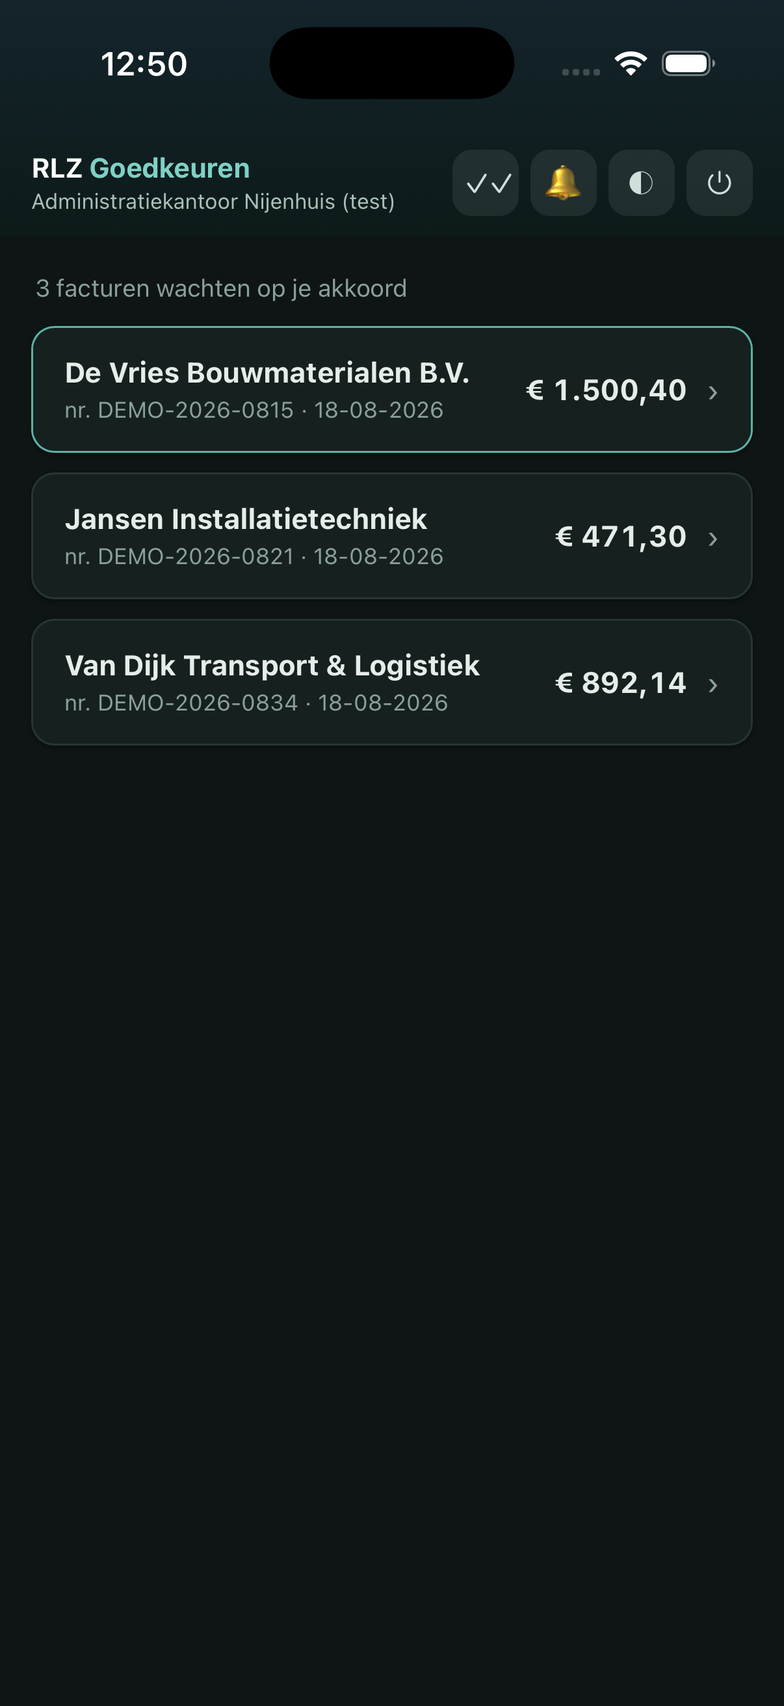
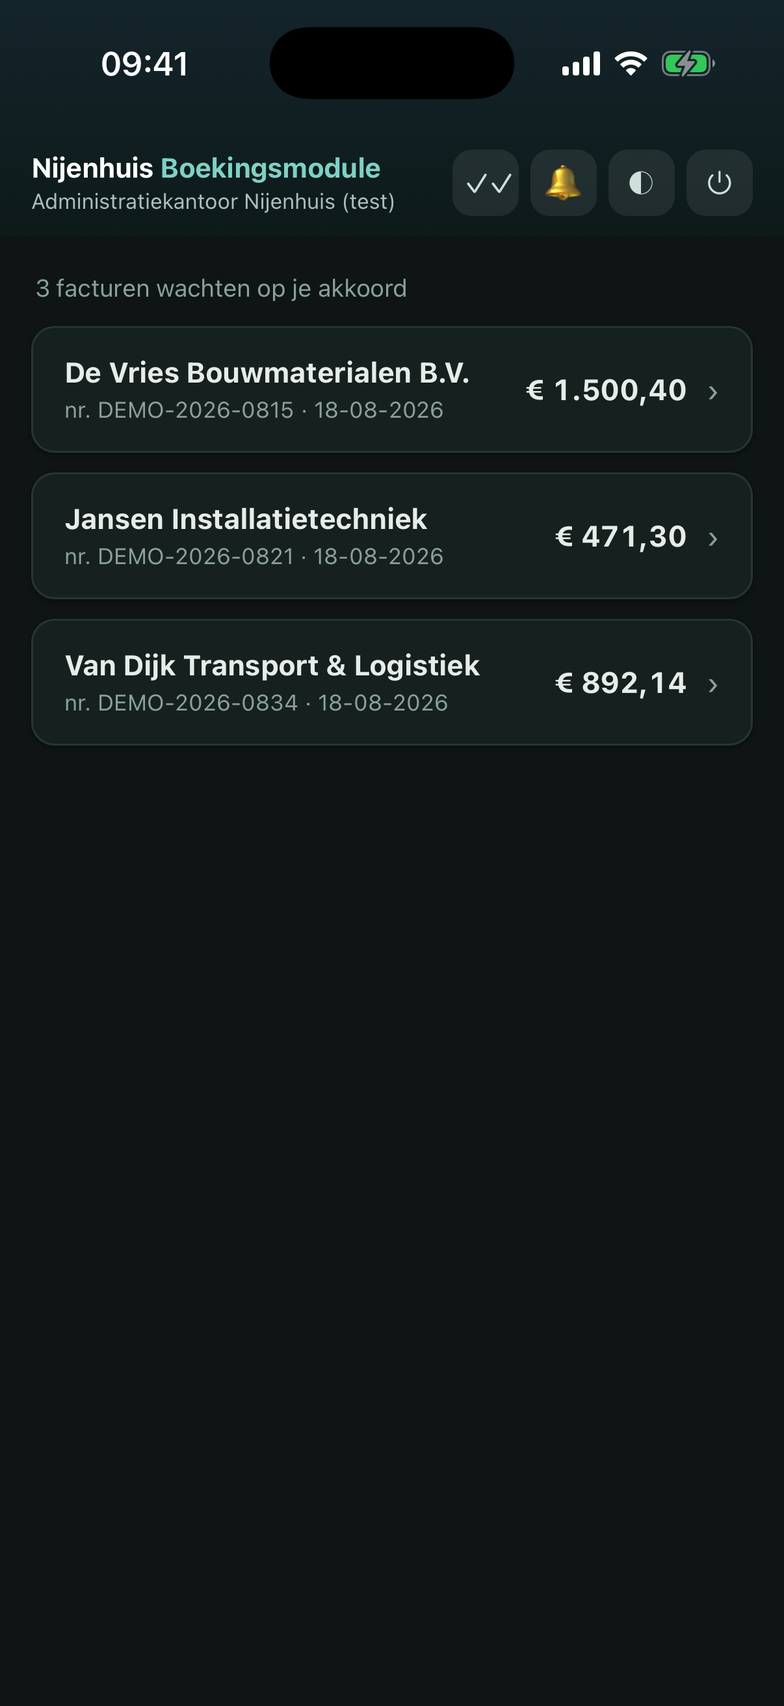
feat(accordeur): in-app wordmark 'Nijenhuis Boekingsmodule' + store-screenshots hergenereerd
- besluit Peter 19-08: schermkop (login/ontgrendel/activeren/voorwaarden/
  wachtrij/meldingen-kaart + AccordeurApp-tussenstanden, 9 plekken) van
  'RLZ Goedkeuren' naar 'Nijenhuis <span>Boekingsmodule</span>' — zelfde
  stijl, ondertitels ongewijzigd; mockup-norm accordeur.html 1-op-1 mee
- alle 7 App Store-screenshots hergenereerd in de simulator-opzet van
  18-08 (lokale backend met apex-rp_id, fictieve DEMO-facturen, donker;
  6.3" 1206x2622 + 6.9" 1320x2868) — passkey-cyclus onderweg opnieuw
  live bewezen, iOS-sheet toont nu 'Inloggen bij Nijenhuis'
- STORE_GEREEDHEID kopnoot + screenshotsectie bijgewerkt; BESLISSINGEN
  rij IN-APP WORDMARK (+ APP HERNOEMD-status)
- tsc -b schoon; 439 frontendtests groen; prod-bundle + cap sync ververst
- open: kabel-install op Peters iPhone (toestel was niet verbonden)

diff --git a/frontend/src/accordeur/AccordeurApp.tsx b/frontend/src/accordeur/AccordeurApp.tsx
@@ -165,7 +165,7 @@ export default function AccordeurApp() {
       ) : (
         <div className="acc-vol">
           <div className="acc-appnaam">
-            RLZ <span>Goedkeuren</span>
+            Nijenhuis <span>Boekingsmodule</span>
           </div>
           <div className="acc-bio">
             <div className="acc-sub">Laden…</div>
@@ -176,7 +176,7 @@ export default function AccordeurApp() {
     inhoud = (
       <div className="acc-vol">
         <div className="acc-appnaam">
-          RLZ <span>Goedkeuren</span>
+          Nijenhuis <span>Boekingsmodule</span>
         </div>
         <div className="acc-bio">
           <div className="acc-icoon">☉</div>
@@ -195,7 +195,7 @@ export default function AccordeurApp() {
     inhoud = (
       <div className="acc-vol">
         <div className="acc-appnaam">
-          RLZ <span>Goedkeuren</span>
+          Nijenhuis <span>Boekingsmodule</span>
         </div>
         <div className="acc-bio">
           <div className="acc-sub">Laden…</div>

diff --git a/mockup/accordeur.html b/mockup/accordeur.html
@@ -232,7 +232,7 @@
 
     <div class="apphead">
       <div>
-        <b>RLZ <span>Goedkeuren</span></b>
+        <b>Nijenhuis <span>Boekingsmodule</span></b>
         <div class="who">BLOW B.V. · S. Bakker (laag 1)</div>
       </div>
       <div class="headbtns">
@@ -351,7 +351,7 @@
          (klik-klik-besluit Peter 2026-08-17: openen → Face ID → binnen, nul onnodige tikken);
          de knop blijft staan als herkansing (prompt weggedrukt/gefaald — dan geen foutmelding). -->
     <div class="unlock" id="unlock">
-      <div class="appnaam">RLZ <span>Goedkeuren</span></div>
+      <div class="appnaam">Nijenhuis <span>Boekingsmodule</span></div>
       <div class="bio">
         <div class="icoon" id="bioicoon">☉</div>
         <b id="biotitel">Ontgrendel met Face ID</b>

diff --git a/frontend/src/accordeur/GoedkeurenFlow.tsx b/frontend/src/accordeur/GoedkeurenFlow.tsx
@@ -590,7 +590,7 @@ export function GoedkeurenFlow({ wisselThema, uitloggen }: Props) {
     return (
       <div className="acc-vol">
         <div className="acc-appnaam">
-          RLZ <span>Goedkeuren</span>
+          Nijenhuis <span>Boekingsmodule</span>
         </div>
         <div className="acc-bio">
           <div className="acc-icoon">🔔</div>
@@ -626,7 +626,7 @@ export function GoedkeurenFlow({ wisselThema, uitloggen }: Props) {
       <div className="acc-apphead">
         <div>
           <b>
-            RLZ <span>Goedkeuren</span>
+            Nijenhuis <span>Boekingsmodule</span>
           </b>
           <div className="acc-who">{administratieNamen.join(' · ') || 'Accordeur'}</div>
         </div>

diff --git a/frontend/src/accordeur/Ontgrendel.tsx b/frontend/src/accordeur/Ontgrendel.tsx
@@ -87,7 +87,7 @@ export function Ontgrendel({ naOntgrendeld, naarLogin }: Props) {
   return (
     <div className="acc-vol">
       <div className="acc-appnaam">
-        RLZ <span>Goedkeuren</span>
+        Nijenhuis <span>Boekingsmodule</span>
       </div>
       <div className="acc-bio">
         <div className={gelukt ? 'acc-icoon ok' : 'acc-icoon'}>{gelukt ? '✓' : '☉'}</div>

diff --git a/frontend/src/accordeur/AccordeurActiveren.tsx b/frontend/src/accordeur/AccordeurActiveren.tsx
@@ -83,7 +83,7 @@ export function AccordeurActiveren({ passkeySetupToken, naIngelogd }: Props) {
   return (
     <div className="acc-vol">
       <div className="acc-appnaam">
-        RLZ <span>Goedkeuren</span>
+        Nijenhuis <span>Boekingsmodule</span>
       </div>
       <div className="acc-bio">
         <div className="acc-icoon">☉</div>

diff --git a/frontend/src/accordeur/VoorwaardenScherm.tsx b/frontend/src/accordeur/VoorwaardenScherm.tsx
@@ -51,7 +51,7 @@ export function VoorwaardenScherm({ naAkkoord, uitloggen }: Props) {
         ⏻
       </button>
       <div className="acc-appnaam">
-        RLZ <span>Goedkeuren</span>
+        Nijenhuis <span>Boekingsmodule</span>
       </div>
       <div className="acc-bio" style={{ padding: 0 }}>
         <b>Voordat je begint</b>

diff --git a/frontend/src/accordeur/AccordeurLogin.tsx b/frontend/src/accordeur/AccordeurLogin.tsx
@@ -88,7 +88,7 @@ export function AccordeurLogin({ naIngelogd }: Props) {
   return (
     <div className="acc-vol">
       <div className="acc-appnaam">
-        RLZ <span>Goedkeuren</span>
+        Nijenhuis <span>Boekingsmodule</span>
       </div>
       <div className="acc-bio">
         <b>Inloggen</b>

diff --git a/docs/BESLISSINGEN.md b/docs/BESLISSINGEN.md
@@ -153,7 +153,8 @@
 | **NATIVE-APP FASE 4: GEBUNDELDE ASSETS + BEARER-REFRESH KEYCHAIN/KEYSTORE — GEBOUWD + GETEST (2026-08-17; native opslag-plugins geschreven, compile = kliktest).** Route 2 uit verkenning/17 (d): échte app, geen remote-wrapper. Backend: vernieuwen-familie (vernieuwen/logout/ontgrendel-opties/ontgrendelen) accepteert het refresh-token als `X-Refresh-Token`-header; expliciet-native clients (`X-Native-Client: 1`) krijgen het paar in de body en GÉÉN cookie — één kanaal per client, zelfde rotatie/grace/kill-switch-service-laag. **Web-contract byte-voor-byte ongewijzigd + bewaakt:** zonder native-aankondiging bestaat `refresh_token` niet in de body (serializer-guard; bestaande cookie-guards + nieuwe tests `tests/auth/test_native_refresh.py`, 4) — web-XSS kan het token onverminderd niet lezen. Webcode: `VITE_API_BASE` (native bundel via `frontend/.env.native` + `--mode native`; web/dev root-relatief ongewijzigd — single-flight-timing web bewust intact), `api/nativeSessie.ts` (brug naar eigen VeiligeOpslag-plugin, fail-closed), refresh-flow bewaart het geroteerde body-token, AuthContext bewaart/wist bij in-/uitloggen, startroute native = /accordeur (main.tsx). Native: `VeiligeOpslagPlugin.swift` (Keychain, AfterFirstUnlockThisDeviceOnly — nooit in backups) + `.java` (EncryptedSharedPreferences/Keystore) — eigen dunne plugins, geen community-pakket in de auth-kern; geregistreerd in MainViewController/MainActivity + pbxproj (plutil OK). Tests: 4 backend + 4 frontend nieuw; suites groen (1542 backend, 420 frontend). Kliktest-blok (met fase 2-sessie): koude-herstart-ontgrendeling zonder login + kill-switch-terugval; vooraf VITE_API_BASE-domein bevestigen | **gebouwd + getest (2026-08-17); BEWEZEN OP TOESTEL (kliktest ronde 2, 2026-08-17 — koude herstart-Keychain-refresh + kill-switch; zie de rij "NATIVE KLIKTEST RONDE 2")** — formeel gemeld aan vastgoed via Platform/OPEN_ITEMS (2026-08-17, ter kennisname: additief opt-in kanaal op het gedeelde auth-fundament, web-contract ongewijzigd) | verkenning/17 "Bouwstatus fase 4" (canoniek); `app/auth/router.py::_lever_token_paar`; `frontend/src/api/nativeSessie.ts` + `client.ts`; `native/.../VeiligeOpslagPlugin.*` |
 | **NATIVE-APP FASE 5: STORE-GEREEDHEID — VOORBEREID (2026-08-17); publicatie wacht op de kliktest-blokken (accounts bestaan al — correctie 2026-08-17).** Iconen + splash beide schillen uit één SVG-bron via `native/scripts/genereer_assets.sh` (herhaalbaar — geen hand-bewerkte PNG's; sinds 2026-08-18 het definitieve N-beeldmerk + CoreSVG-renderer, zie rij APP-BEELDMERK): App Store-icoon 1024 full-bleed, iOS-splash 2732 (geen witflits), Android launcher/round/adaptive per dichtheid + alle splash-drawables. Dossier `native/STORE_GEREEDHEID.md` (canoniek): privacy nutrition labels + Play Data safety voor-ingevuld (geen tracking/ATT, EU-verwerking, push-payload zonder financiële data, account-verwijdering via kantoor/AVG-proces — raakvlak 0010), reviewnotities (demo-accordeur TEST-administratie, 4.2-onderbouwing), publicatie-checklist (TestFlight; Play gesloten test ≥12 testers/14 dgn; assetlinks + apk-key-hash-origin ná keystore), versiebeleid (elke bundel-wijziging = store-release; PWA blijft snelste kanaal + terugval). Open ná kliktests: privacyverklaring als publieke URL, review-demo-account, screenshots | **voorbereid (2026-08-17)** — publicatie ná de kliktest-blokken (accounts bestaan al onder PDL Powerhouse — correctie 2026-08-17) | `native/STORE_GEREEDHEID.md` (canoniek); `native/scripts/genereer_assets.sh`; verkenning/17 "Bouwstatus fase 5" |
 | **APP-BEELDMERK "RLZ Goedkeuren" — BESLOTEN + DOORGEVOERD (2026-08-18, besluit Peter).** Definitief beeldmerk = `mockup/app-icoon-n.svg`: de N van Reisburo Nijenhuis (het familielogo), exact hertekend uit een pixelscan van het origineel (drie losse delen, onderbroken contouren, geknikte binnenranden, punt boven/onder), als witte contour op het wordmark-verloop van Administratiekantoor Nijenhuis, accent-driehoeken in mint. **HARD: de geometrie is het besluit — nooit "verbeteren" of hertekenen**; wijziging alleen via een nieuw besluit. Die SVG is dé bron van de hele icoon-/splash-pipeline: `native/scripts/genereer_assets.sh` extraheert monogram + verloop (geen tweede tekening) en genereert App Store-icoon 1024, iOS-splash 2732 (verloop schermvullend, monogram gecentreerd), Android launcher/round/adaptive per dichtheid (adaptive background = verloop-PNG i.p.v. effen kleur) + alle splash-drawables, én de PWA-kant (byte-kopie naar `frontend/public/icons/accordeur-icoon.svg` + 512/192/apple-touch-180, manifest-SVG-entry, eigen accordeur-favicon via head-link). Renderer omgezet qlmanage → NSImage/CoreSVG (osascript, puur macOS): qlmanage plette SVG-transparantie naar opaak wit — latente bug, de oude Android-adaptive-foreground was daardoor een wit vlak (nooit opgevallen: de Android-ronde is nog niet gedraaid). Dev-build met het nieuwe icoon 18-08 via de kabel op Peters iPhone geïnstalleerd. Store-screenshots bewust NIET hergenereerd: het app-icoon komt in geen enkele screenshot in beeld (kop = tekst-wordmark, ontgrendelscherm = ☉-glyph, factuurbeeld = PDF) — geverifieerd 18-08. | **doorgevoerd (2026-08-18)** | `mockup/app-icoon-n.svg` (canoniek beeldmerk); `native/scripts/genereer_assets.sh` (pipeline); `native/STORE_GEREEDHEID.md` §5 |
-| **APP HERNOEMD "Nijenhuis Boekingsmodule" — BESLOTEN + DOORGEVOERD (2026-08-19, besluit Peter).** App Store-/productnaam = **"Nijenhuis Boekingsmodule"** (ondertitel blijft "Facturen goedkeuren"); beginscherm-weergavenaam = kort **"Nijenhuis"** (i.v.m. afkapping onder het icoon); **bundle-id blijft `nl.aknijenhuis.goedkeuren`** (onzichtbaar; wijzigen zou signing/AASA raken). Doorgevoerd: `capacitor.config.ts` appName; iOS `Info.plist` CFBundleDisplayName "Nijenhuis"; Android `strings.xml` `app_name` "Nijenhuis" + `title_activity_main` "Nijenhuis Boekingsmodule"; PWA-manifest name/short_name; `document.title` (AccordeurApp); backend-productnaam-defaults mee (webauthn_rp_naam = de naam in de passkey-dialoog, pushtitel-defaults in `app/berichten/` + `accordeur-sw.js`-fallback, privacypagina-titel — bestaande passkeys behouden hun oude opgeslagen RP-naam-label, rp_id ongewijzigd dus geldig); STORE_GEREEDHEID + TESTFLIGHT_DRAAIBOEK (ASC-naam/description-stappen), verkenning/17-notitie, apns_afronden-instructietekst, mockup-pushvoorbeeld. Pipeline hergenereerd: `bouw-web` + `cap sync` (appName-kopieën `capacitor.config.json` iOS/Android + gebundeld webmanifest); **iconen/splash dragen geen tekst** (N-monogram) — geen asset-hergeneratie nodig. Backend-tests berichten+auth 182 groen; dev-build gebouwd en **op Peters iPhone geïnstalleerd 19-08** (CFBundleDisplayName "Nijenhuis" in de bundel geverifieerd). **BEWUST NIET mee (aparte UX-beslissing):** de in-app wordmark "RLZ Goedkeuren" op de schermen (login/ontgrendel/wachtrij — mockup-norm `accordeur.html`; de store-screenshots tonen die kop, meenemen = screenshots hergenereren). NB blijvend historisch: APNs-keynaam "RLZ Goedkeuren APNs" in het Apple-portal; SKU-voorstel `rlz-goedkeuren` (onzichtbaar, ASC-registratie moet nog) | **doorgevoerd + op toestel geïnstalleerd (2026-08-19)** — open: in-app wordmark (apart besluit) | `native/capacitor.config.ts`; `native/ios/App/App/Info.plist`; `native/android/.../strings.xml`; `frontend/public/accordeur.webmanifest`; `native/STORE_GEREEDHEID.md` (kopnoot) + `native/TESTFLIGHT_DRAAIBOEK.md` |
+| **APP HERNOEMD "Nijenhuis Boekingsmodule" — BESLOTEN + DOORGEVOERD (2026-08-19, besluit Peter).** App Store-/productnaam = **"Nijenhuis Boekingsmodule"** (ondertitel blijft "Facturen goedkeuren"); beginscherm-weergavenaam = kort **"Nijenhuis"** (i.v.m. afkapping onder het icoon); **bundle-id blijft `nl.aknijenhuis.goedkeuren`** (onzichtbaar; wijzigen zou signing/AASA raken). Doorgevoerd: `capacitor.config.ts` appName; iOS `Info.plist` CFBundleDisplayName "Nijenhuis"; Android `strings.xml` `app_name` "Nijenhuis" + `title_activity_main` "Nijenhuis Boekingsmodule"; PWA-manifest name/short_name; `document.title` (AccordeurApp); backend-productnaam-defaults mee (webauthn_rp_naam = de naam in de passkey-dialoog, pushtitel-defaults in `app/berichten/` + `accordeur-sw.js`-fallback, privacypagina-titel — bestaande passkeys behouden hun oude opgeslagen RP-naam-label, rp_id ongewijzigd dus geldig); STORE_GEREEDHEID + TESTFLIGHT_DRAAIBOEK (ASC-naam/description-stappen), verkenning/17-notitie, apns_afronden-instructietekst, mockup-pushvoorbeeld. Pipeline hergenereerd: `bouw-web` + `cap sync` (appName-kopieën `capacitor.config.json` iOS/Android + gebundeld webmanifest); **iconen/splash dragen geen tekst** (N-monogram) — geen asset-hergeneratie nodig. Backend-tests berichten+auth 182 groen; dev-build gebouwd en **op Peters iPhone geïnstalleerd 19-08** (CFBundleDisplayName "Nijenhuis" in de bundel geverifieerd). **BEWUST NIET mee (aparte UX-beslissing):** de in-app wordmark "RLZ Goedkeuren" op de schermen (login/ontgrendel/wachtrij — mockup-norm `accordeur.html`; de store-screenshots tonen die kop, meenemen = screenshots hergenereren). NB blijvend historisch: APNs-keynaam "RLZ Goedkeuren APNs" in het Apple-portal; SKU-voorstel `rlz-goedkeuren` (onzichtbaar, ASC-registratie moet nog) | **doorgevoerd + op toestel geïnstalleerd (2026-08-19)** — vervolg: de in-app wordmark is zelfde dag alsnog gelijkgetrokken (zie rij IN-APP WORDMARK hieronder) | `native/capacitor.config.ts`; `native/ios/App/App/Info.plist`; `native/android/.../strings.xml`; `frontend/public/accordeur.webmanifest`; `native/STORE_GEREEDHEID.md` (kopnoot) + `native/TESTFLIGHT_DRAAIBOEK.md` |
+| **IN-APP WORDMARK "Nijenhuis Boekingsmodule" — BESLOTEN + DOORGEVOERD (2026-08-19, besluit Peter; het bij APP HERNOEMD opengelaten vervolg).** De schermkop in de accordeur-app (login, ontgrendel, activeren, voorwaarden, wachtrij, meldingen-kaart + de AccordeurApp-tussenstanden — 9 plekken) zegt nu `Nijenhuis <span>Boekingsmodule</span>` i.p.v. `RLZ <span>Goedkeuren</span>`: zelfde stijl (accent op het tweede woord), ondertitels/context ongewijzigd; mockup-norm `mockup/accordeur.html` 1-op-1 mee (2 plekken). Kop past op één regel op 402pt-breedte (simulator-verificatie). `tsc -b` schoon + 66 accordeur-frontendtests groen. **Store-screenshots hergenereerd (alle 7: 6.3"-set van 4 + 6.9"-set van 3)** in de simulator-opzet van 18-08 (lokale backend met apex-rp_id, fictieve DEMO-facturen, donker thema, 1206×2622/1320×2868) — onderweg de volledige passkey-cyclus opnieuw live bewezen (verse registratie op de 6.3"-simulator; de iOS-sheet toont nu "Inloggen bij Nijenhuis"). Productie-bundle + `cap sync` ververst (VITE_API_BASE prod), toestel-build gemaakt; **installatie op Peters iPhone stond nog open bij afronding: het toestel was niet verbonden (devicectl unavailable)** — installeren = `xcrun devicectl device install app --device 9238D962-… native/ios/App/build/dd/Build/Products/Debug-iphoneos/App.app` zodra de kabel erin zit. Historisch blijven bewust: APNs-keynaam "RLZ Goedkeuren APNs" (Apple-portal) en oude passkey-labels op bestaande apparaten | **doorgevoerd + getest (2026-08-19)** — open: kabel-install op Peters iPhone | `frontend/src/accordeur/` (9 plekken); `mockup/accordeur.html` (norm); `native/store-assets/screenshots/`; `native/STORE_GEREEDHEID.md` (kopnoot) |
 | **NATIVE-APP FASE 2: NATIVE PASSKEY-PLUGIN — CODE STAAT (2026-08-17); BEWIJS = KLIKTEST ECHT TOESTEL (Apple-account bestaat al — correctie 2026-08-17; wacht op Xcode-install + toestel-sessie).** Route 1 uit verkenning/17 (eigen dunne plugin — bewust geen community-pakket in de auth-kern; rp_id blijft de apex, besluit 0022 → bestaande passkeys blijven geldig). **Lokaal getest:** (1) webcode-seam `nativePasskey.ts` (detectie via Capacitor-bridge-globals, géén @capacitor-dependency in de webcode, fail-closed bij half plugin-oppervlak/niet-native) + doorrouting in `webauthnClient.ts` (registreerPasskey/ondertekenAssertie/webauthnBeschikbaar — options-JSON erin, credential-JSON eruit; schermen + backend merken niets, auth-cadans blok 2 ongewijzigd), 8 tests; (2) backend `app/auth/wellknown.py`: `/.well-known/apple-app-site-association` + `assetlinks.json` fail-closed 404 zolang `apple_team_id`/`android_cert_sha256_vingerafdrukken` leeg (config.py; `native_app_bundle_id` default `nl.aknijenhuis.goedkeuren`), 4 tests. **Geschreven maar NIET lokaal compileerbaar (alleen CLT, geen Android-SDK — eerlijk gemeld, 'gedocumenteerd ≠ gebouwd' geldt hier als 'geschreven ≠ bewezen'):** iOS `NatievePasskeyPlugin.swift` (ASAuthorizationController, registratie+assertie, base64url-vertaling naar de exacte py_webauthn-credential-vorm, annuleren='geannuleerd', iOS 16-poort, excludeCredentials ≥17.4; registratie via MainViewController.capacitorDidLoad + storyboard; Associated-Domains-entitlement gewired in pbxproj — plutil-lint OK) én Android `NatievePasskeyPlugin.java` (Credential Manager: registrationResponseJson/authenticationResponseJson zijn al de juiste WebAuthn-JSON; androidx.credentials 1.5.0 in build.gradle, registratie in MainActivity). `webauthn_origins`: iOS = apex-origin (⚠ de eerdere claim "staat in productie al" was FOUT — deploy.yml had alleen het app-subdomein; gecorrigeerd in de compile-ronde 2026-08-17, zie de rij hieronder), Android vergt t.z.t. `android:apk-key-hash:<b64url-sha256>` (deploy-config, pas mogelijk mét signing-key). **Kliktest-blok (stappen in verkenning/17 "Bouwstatus"): Xcode-install + eerste compile-ronde, PDL-signing + Associated Domains (gratis personal team faalt hierop), apple_team_id in productieconfig + AASA-check op de apex, activerings- én ontgrendel-flow op een echt toestel, bestaande PWA-passkey hertest; Android idem ná Play Console/keystore** | **BEWEZEN OP ECHT TOESTEL (kliktest Peter 2026-08-17)** — passkey-registratie + login in de echte native Face ID-prompt; AASA/entitlement-keten klopt live. Zie de rij "NATIVE KLIKTEST RONDE 1" | verkenning/17 "Bouwstatus fase 2" (canoniek, incl. kliktest-blok); `frontend/src/accordeur/nativePasskey.ts`; `native/ios/App/App/NatievePasskeyPlugin.swift` + `MainViewController.swift` + `App.entitlements`; `native/android/.../NatievePasskeyPlugin.java`; `backend/app/auth/wellknown.py` + `tests/auth/test_wellknown.py` |
 | **NATIVE KLIKTEST RONDE 1 (Peter, echt iPhone-toestel 2026-08-17): fase 2-kern BEWEZEN + safe-area-bevinding GEFIKST.** Uitkomsten: (1) passkey-registratie én login met de echte native Face ID-prompt ✅; (2) akkoord-flow hergeboden testfactuur vlot — fase 1-snelheidslaag op toestel bevestigd ✅; (3) koude herstart (wegvegen → openen → alleen Face ID) nog expliciet af te tikken; (4) BEVINDING: app-kop onder de iOS-statusbalk — oorzaak: viewport-meta miste `viewport-fit=cover`, waardoor `env(safe-area-inset-*)` in de edge-to-edge Capacitor-webview overal 0 was (PWA schuift zelf in, dáár onzichtbaar). **Structurele fix (zelfde dag):** `viewport-fit=cover` in `frontend/index.html` (PWA/desktop onveranderd — CSS rekende al overal met env()), sweep alle accordeur-schermen: `.acc-content`-onderrand (schermen zónder actiebalk), `.acc-vol` boven/onder + inline-override VoorwaardenScherm, zijranden landschap op `.acc`; statusbalktekst wit (Info.plist `UIStatusBarStyleLightContent`, spiegel PWA-`theme_color` #0e1514) mét donkere statusbalk-cap `.acc-vol::before` zodat de klok in het lichte thema leesbaar blijft; actiebalk/sheets/toast hadden al env-bottom — nu actief (home-indicator gedekt). Bundel herbouwd + `cap sync ios`; tsc + 58 accordeur-tests groen. Zichtcontrole + rest = **ronde 2-checklist in verkenning/17** (koude herstart, meldingen aan, bewijs-push, kill-switch, PWA-passkey-hertest) | **fase 2 bewezen; fix gebouwd, zichtcontrole = ronde 2 (2026-08-17)** | verkenning/17 "Bouwstatus fase 2" + "Kliktest-checklist ronde 2" (canoniek); `frontend/index.html`, `frontend/src/accordeur/accordeur.css`, `VoorwaardenScherm.tsx`, `native/ios/App/App/Info.plist` |
 | **MELDINGEN-KAART ACCORDEUR EENMALIG (UX-besluit Peter 2026-08-17, capture-at-acceptance) — GEBOUWD + GETEST (2026-08-17).** BESLUIT: de kaart "Zet meldingen aan" hoort NIET permanent op de wachtrij — éénmalig voorstellen in de activeringsflow (het bestaande voorstelscherm direct ná het voorwaarden-akkoord) en de keuze onthouden, óók een "nee"; de kaart verdwijnt na élke uitkomst: **aan** (subscriptie geregistreerd), **uit** (keuze onthouden) of **mislukt** (eerlijke fout-toast mét echte reden + precies één herkansing, geen permanente banner). Later alsnog aan-/uitzetten kan discreet via het nieuwe **🔔-hoekje** naast de themaknop (sheet: status + aan/uit + geblokkeerd-/niet-ondersteund-uitleg — de vroegere permanente geweigerd- en aan-banners zijn daarheen verhuisd). Scherm blijft schoon: de wachtrij is voor facturen. **Keuze per APPARAAT** (localStorage `accordeur_meldingen_keuze` 'aan'/'uit'/'mislukt' — native webview en PWA hebben gescheiden opslag, dus vanzelf aparte apparaten); de eenmalige wachtrij-kaart blijft alléén bestaan voor apparaten die de activeringsflow al doorliepen zonder onthouden keuze (mét "niet nu"-link). Kill-switch-semantiek ongewijzigd (server-side intrekken per apparaat blijft bijten, ongeacht de lokale keuze). Mockup `accordeur.html` mee bijgewerkt (🔔-hoekje + meldingen-sheet + eenmalige kaart, permanente pushnote weg). Tests: `Meldingen.test.tsx` herschreven (9 — aan-onthouden, "niet nu", onthouden-keuze-verbergt, mislukt-met-één-herkansing, geweigerd-zonder-banner-mét-sheet-uitleg, later-aanzetten-via-🔔, niet-ondersteund); frontend-suite 430 groen, tsc schoon | **gebouwd + getest (2026-08-17)** — zit in de native build van dezelfde dag | `frontend/src/accordeur/GoedkeurenFlow.tsx` + `pushClient.ts` (keuze-opslag); `mockup/accordeur.html`; deze rij (canoniek voor het UX-besluit) |

diff --git a/native/STORE_GEREEDHEID.md b/native/STORE_GEREEDHEID.md
@@ -5,9 +5,10 @@
 > beginscherm-weergavenaam = kort **"Nijenhuis"** (CFBundleDisplayName in Info.plist +
 > `app_name` in het Android-manifest, i.v.m. afkapping onder het icoon; PWA-manifest:
 > name "Nijenhuis Boekingsmodule", short_name "Nijenhuis"). Bundle-id blijft
-> `nl.aknijenhuis.goedkeuren` — wijzigen zou signing/AASA raken. NB de **in-app wordmark**
-> op de schermen zegt nog "RLZ Goedkeuren" (mockup-norm; de store-screenshots tonen die
-> kop) — aanpassen is een aparte UX-beslissing, zie BESLISSINGEN "APP HERNOEMD".
+> `nl.aknijenhuis.goedkeuren` — wijzigen zou signing/AASA raken. **De in-app wordmark is
+> per 2026-08-19 (besluit Peter) gelijkgetrokken naar "Nijenhuis Boekingsmodule"** (alle
+> schermen + mockup-norm `accordeur.html`); de store-screenshots zijn dezelfde dag
+> hergenereerd met de nieuwe kop. Zie BESLISSINGEN "IN-APP WORDMARK".
 
 **Status 2026-08-17:** alles tot aan de kliktest-blokken is klaar (iconen/splash uit één
 SVG-bron via `scripts/genereer_assets.sh`, naamgeving, dit dossier). **Iconen + splash
@@ -103,11 +104,10 @@ gedeeld met derden (FCM = verwerker voor bezorging); geen advertenties.
    `webauthn_origins`.
 5. Store-listing (NL): naam "Nijenhuis Boekingsmodule" (hernoemd 19-08), ondertitel "Facturen goedkeuren" (ASC-limiet
    30 tekens). **Iconen: DEFINITIEF (2026-08-18)** — N-beeldmerk uit `mockup/app-icoon-n.svg`
-   (zie status bovenaan). **Screenshots: KLAAR (2026-08-18)** — `store-assets/screenshots/`
-   (6.9" + 6.3", donker thema: wachtrij, factuurbeeld, ontgrendelscherm + meldingen-kaart;
-   gemaakt in de simulator tegen een lokale backend met uitsluitend fictieve
-   demo-facturen). Het app-icoon komt in geen enkele screenshot in beeld — hergeneratie na
-   de beeldmerk-wissel was dus niet nodig (geverifieerd 18-08). **Privacy-URL: GEBOUWD (2026-08-18)** —
+   (zie status bovenaan). **Screenshots: KLAAR — hergenereerd 2026-08-19 mét de nieuwe
+   in-app wordmark** — `store-assets/screenshots/` (6.9" + 6.3", donker thema: wachtrij,
+   factuurbeeld, ontgrendelscherm + meldingen-kaart; gemaakt in de simulator tegen een
+   lokale backend met uitsluitend fictieve demo-facturen — zelfde opzet als 18-08). **Privacy-URL: GEBOUWD (2026-08-18)** —
    `https://app.administratiekantoornijenhuis.nl/accordeur/privacy`
    (`backend/app/auth/privacy_pagina.py`, wellknown-patroon: rendert de akkoordtekst uit
    `app/auth/voorwaarden.py` — één bron van waarheid, versie zichtbaar; live ná de
